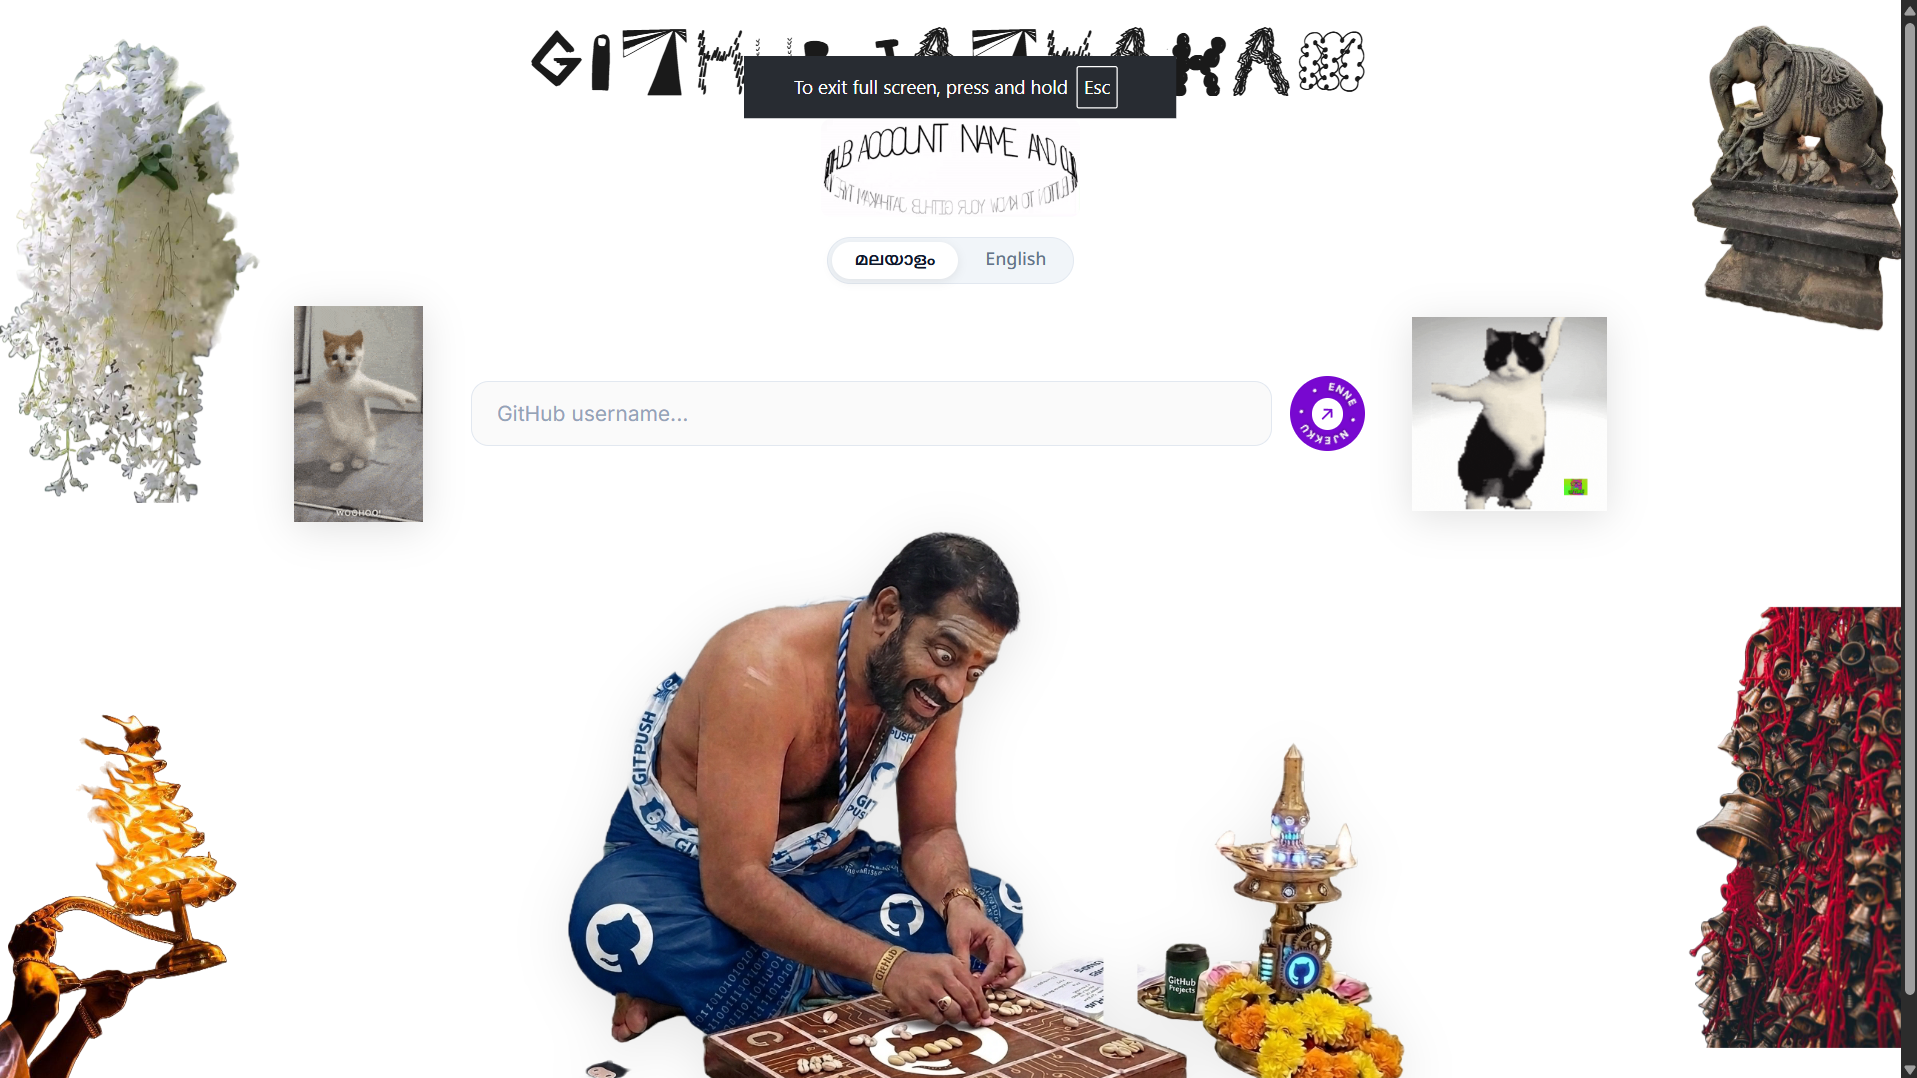
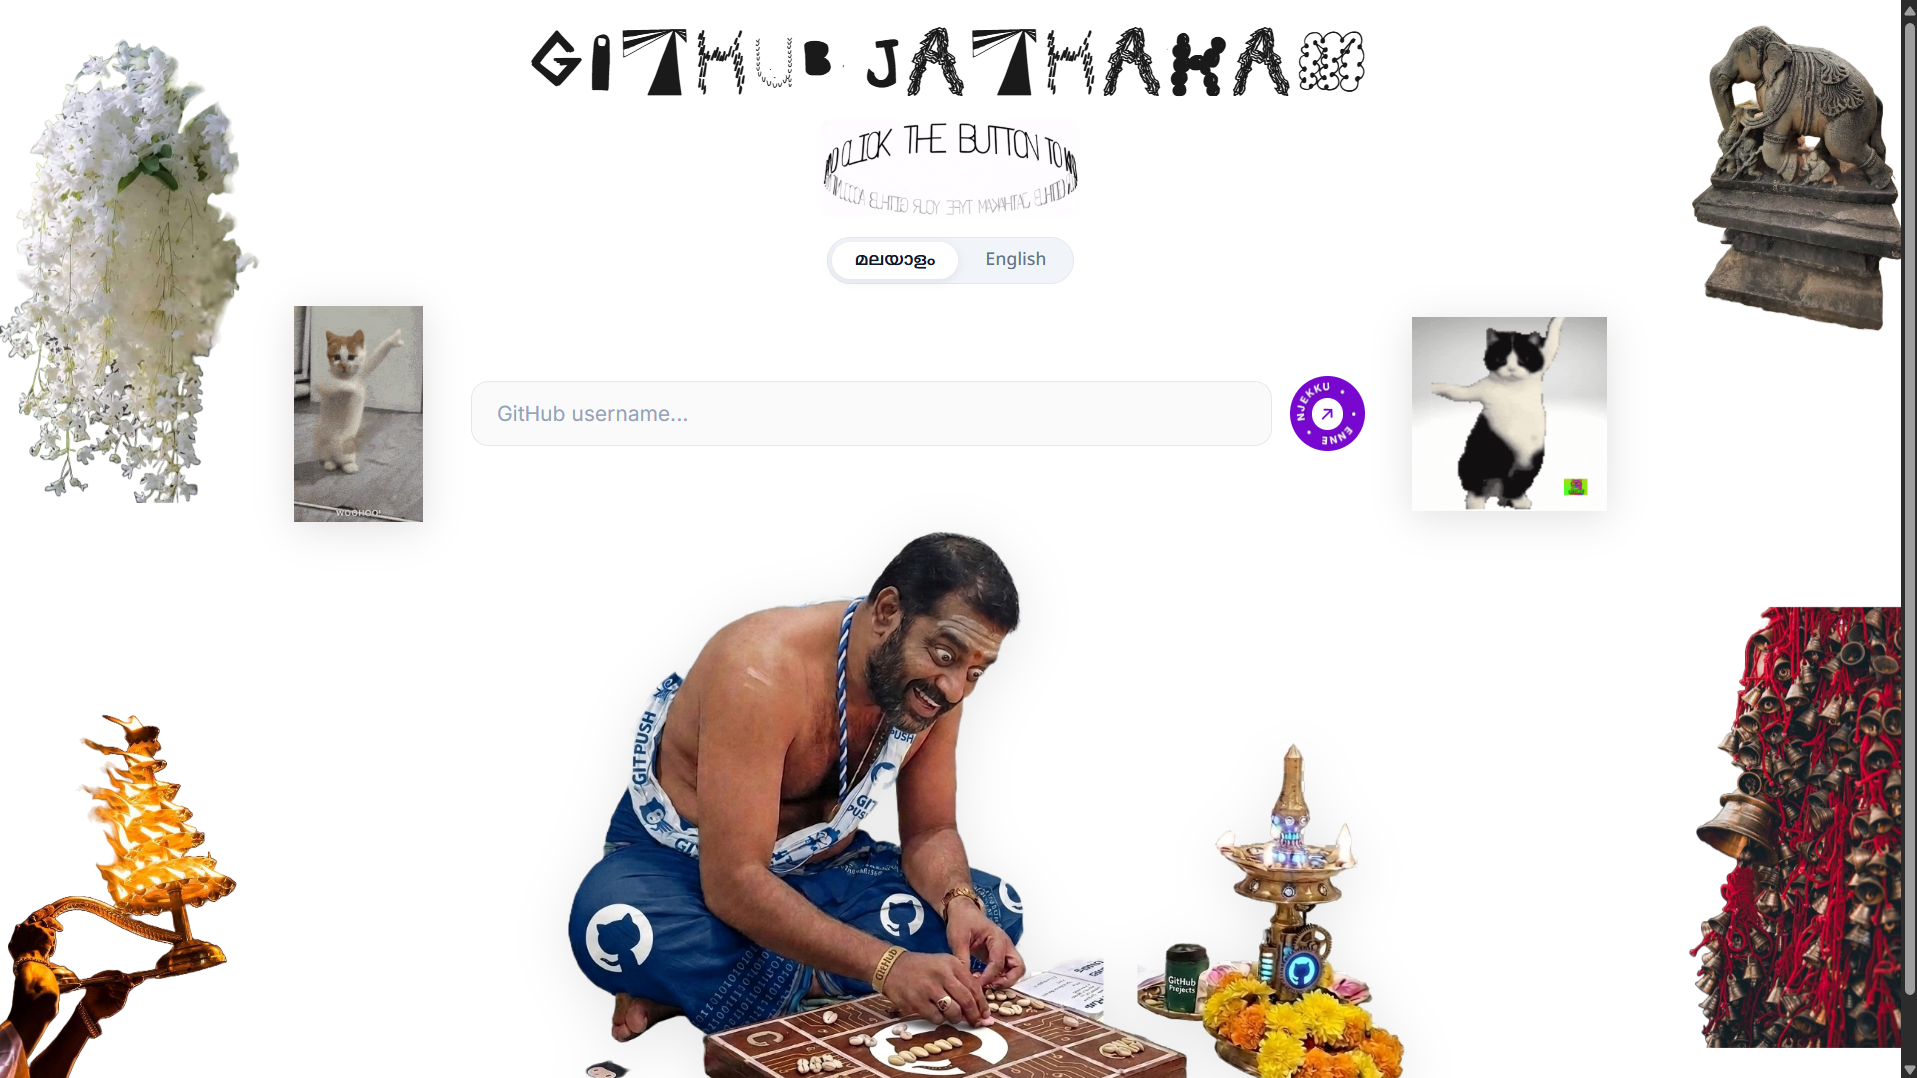
docs: update screenshots in readme

Changed region(s): [[0.3693, 0.0306, 0.6155, 0.2143], [0.1539, 0.3061, 0.2154, 0.4592], [0.6771, 0.3367, 0.7079, 0.4286]]

diff --git a/README.md b/README.md
@@ -15,9 +15,7 @@ Are you tired of rational metrics? Do you look at your GitHub contributions grap
 Here is what this beautiful catastrophe looks like in action:
 
 <p align="center">
-  <img src="public/img2.png" alt="Screenshot 2" width="45%">
-  &nbsp; &nbsp;
-  <img src="public/img3.png" alt="Screenshot 3" width="45%">
+  <img src="public/img2.png" alt="Jaathakam Output" width="80%">
 </p>
 
 ### What it actually does:
